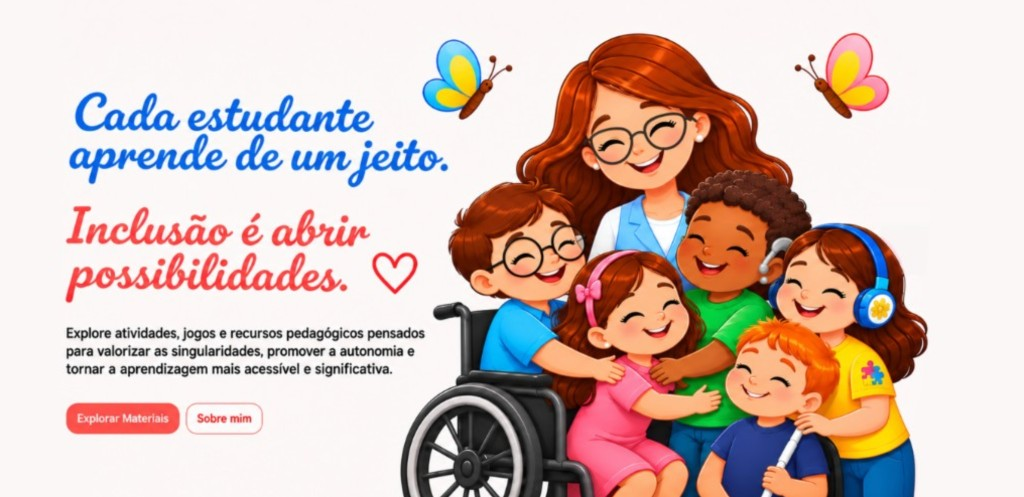
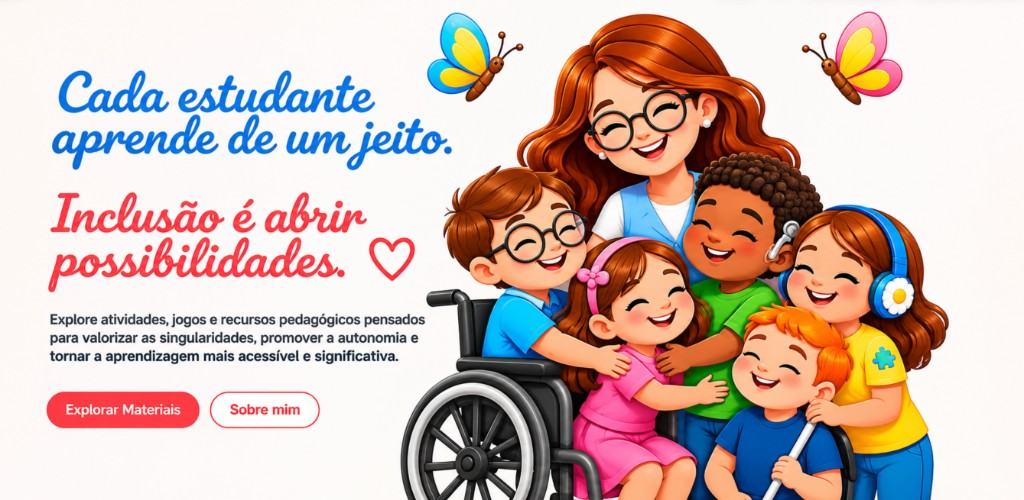
Troca a capa da home pela arte mais nítida.

diff --git a/index.html b/index.html
@@ -17,7 +17,7 @@
       href="https://fonts.googleapis.com/css2?family=Nunito:wght@400;600;700;800&display=swap"
       rel="stylesheet"
     />
-    <link rel="stylesheet" href="css/styles.css?v=102" />
+    <link rel="stylesheet" href="css/styles.css?v=103" />
     <link rel="stylesheet" href="css/historia.css?v=3" />
   </head>
   <body>
@@ -83,7 +83,7 @@
     <section class="hero" id="para-quem" aria-labelledby="titulo-entrada">
       <img
         class="hero-banner"
-        src="img/hero-banner.jpg?v=6"
+        src="img/hero-banner.jpg?v=7"
         alt="Professora com estudantes, entre eles uma criança em cadeira de rodas e outra com bengala. Cada estudante aprende de um jeito. Inclusão é abrir possibilidades."
       />
       <div class="hero-mensagem">

diff --git a/css/styles.css b/css/styles.css
@@ -1282,15 +1282,15 @@ main {
 
 .hero-acoes {
   position: absolute;
-  left: 6.4%;
-  top: 80.3%;
-  width: 19.6%;
-  height: 7.4%;
+  left: 4.7%;
+  top: 78.4%;
+  width: 26.5%;
+  height: 7.2%;
   display: flex;
   flex-wrap: nowrap;
   align-items: stretch;
   justify-content: flex-start;
-  gap: 1.6%;
+  gap: 4.8%;
   margin: 0;
   padding: 0;
   background: transparent;
@@ -1310,7 +1310,7 @@ main {
   font-size: 0.8rem;
 }
 
-.hero-acoes .botao-hero { flex: 1.85 1 auto; }
+.hero-acoes .botao-hero { flex: 1.37 1 auto; }
 
 .hero-acoes .botao:focus-visible {
   outline: 3px solid var(--azul-vivo);
